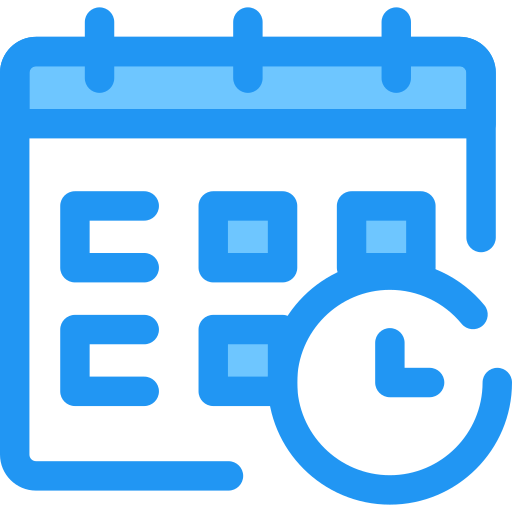
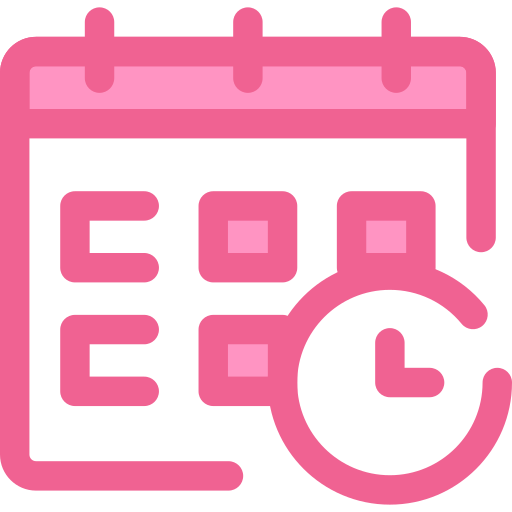
change theme color

diff --git a/src/welcome_page/index.jsx b/src/welcome_page/index.jsx
@@ -7,7 +7,7 @@ import {
   DialogContent, DialogTitle, DialogContentText,
 } from '@material-ui/core';
 import { Alert } from '@material-ui/lab';
-import { blue } from '@material-ui/core/colors';
+import { pink } from '@material-ui/core/colors';
 import axios from 'axios';
 import _ from 'lodash';
 import './index.css';
@@ -23,9 +23,9 @@ const snackbarWarningText = 'Your course info cannot be read. Please try again a
 const theme = createMuiTheme({
   palette: {
     primary: {
-      main: blue[500],
-      light: '#6ec6ff',
-      dark: '#0069c0',
+      main: pink[300],
+      dark: '#ba2d65',
+      light: '#ff94c2'
     },
   },
 });

diff --git a/public/index.html b/public/index.html
@@ -26,7 +26,7 @@
     -->
     <!-- Fonts to support Material Design -->
     <link rel="stylesheet" href="https://fonts.googleapis.com/css?family=Roboto:300,400,500,700&display=swap" />
-    <title>Schedule Planner</title>
+    <title>Data Collection</title>
   </head>
   <body>
     <noscript>You need to enable JavaScript to run this app.</noscript>
